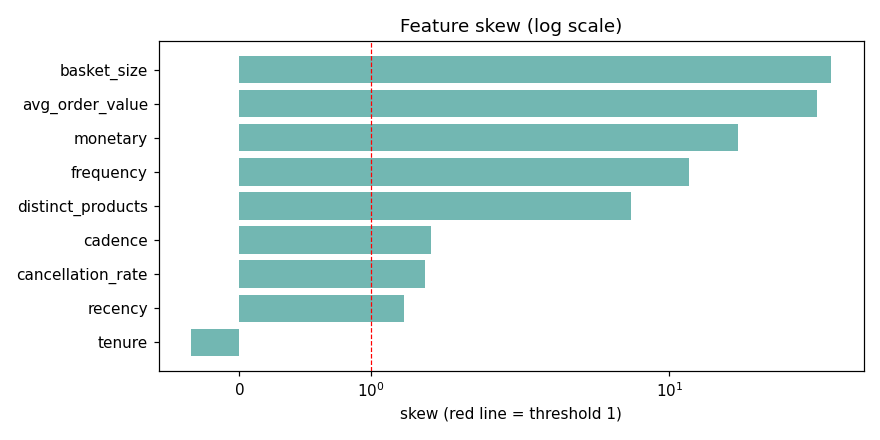
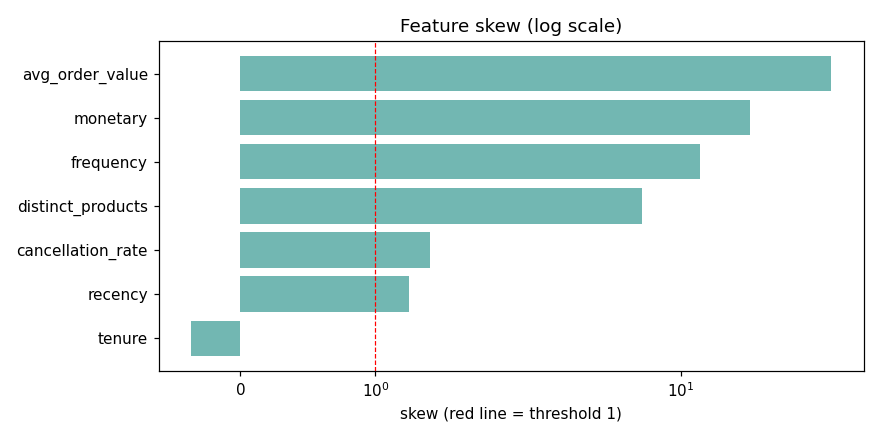
Select 7-feature clustering set, drop redundant basket_size and cadence
- dropped basket_size (r=0.93 with avg_order_value) and cadence (r=0.89 with recency)
- final set: recency, frequency, monetary, avg_order_value, distinct_products, cancellation_rate, tenure
- re-ran EDA, charts, and new feature_quality.py (eta^2 + single-feature silhouette)
- with redundancies removed, cancellation_rate is the strongest segment driver (eta^2 0.70)

diff --git a/feature_quality.py b/feature_quality.py
@@ -1,0 +1,132 @@
+"""Evaluate how good each feature is for customer segmentation.
+
+Two complementary measures:
+
+1. Single-feature silhouette: for each feature alone (log-transformed,
+   scaled), run KMeans for k=2..5 and take the best silhouette.
+   High score = the feature by itself splits customers into natural
+   groups.
+
+2. Eta-squared (discriminative power): cluster with the full feature
+   set (k=4), then measure how much of each feature's variance is
+   explained by cluster membership (one-way ANOVA eta^2).
+   High eta^2 = the feature strongly differentiates the segments.
+
+Run
+    python feature_quality.py
+
+Outputs
+    reports/feature_quality.md
+    reports/feature_quality.csv
+"""
+from __future__ import annotations
+
+from pathlib import Path
+
+import numpy as np
+import pandas as pd
+from sklearn.cluster import KMeans
+from sklearn.metrics import silhouette_score
+from sklearn.preprocessing import StandardScaler
+
+REPORT_DIR = Path("reports")
+REPORT_PATH = REPORT_DIR / "feature_quality.md"
+QUALITY_CSV = REPORT_DIR / "feature_quality.csv"
+
+FEATURES = [
+    "recency", "frequency", "monetary", "avg_order_value",
+    "distinct_products", "cancellation_rate", "tenure",
+]
+LOG_FEATURES = [
+    "recency", "frequency", "monetary", "avg_order_value",
+    "distinct_products", "cancellation_rate",
+]
+
+
+def prepare(feat: pd.DataFrame) -> pd.DataFrame:
+    X = feat[FEATURES].copy()
+    for f in LOG_FEATURES:
+        X[f] = np.log1p(X[f].clip(lower=0))
+    return X
+
+
+def single_feature_silhouette(X: pd.DataFrame) -> pd.DataFrame:
+    rows = []
+    for f in FEATURES:
+        x = StandardScaler().fit_transform(X[[f]])
+        best_k, best_sil = None, -1
+        for k in range(2, 6):
+            labels = KMeans(n_clusters=k, n_init=10, random_state=42).fit_predict(x)
+            sil = silhouette_score(x, labels)
+            if sil > best_sil:
+                best_k, best_sil = k, sil
+        rows.append({"feature": f, "best_k": best_k, "single_silhouette": best_sil})
+    return pd.DataFrame(rows)
+
+
+def eta_squared(X: pd.DataFrame, k: int = 4) -> pd.Series:
+    """Between-cluster variance share per feature (one-way ANOVA eta^2)."""
+    labels = KMeans(n_clusters=k, n_init=10, random_state=42).fit_predict(
+        StandardScaler().fit_transform(X)
+    )
+    out = {}
+    for f in FEATURES:
+        vals = X[f].values
+        grand = vals.mean()
+        ss_total = ((vals - grand) ** 2).sum()
+        ss_between = sum(
+            (vals[labels == j].size * (vals[labels == j].mean() - grand) ** 2
+             for j in range(k) if (labels == j).any())
+        )
+        out[f] = ss_between / ss_total if ss_total > 0 else 0.0
+    return pd.Series(out)
+
+
+def main() -> None:
+    feat = pd.read_csv(REPORT_DIR / "customer_features.csv", index_col="CustomerID")
+    X = prepare(feat)
+
+    single = single_feature_silhouette(X)
+    eta2 = eta_squared(X)
+
+    quality = single.set_index("feature")
+    quality["eta2"] = eta2
+    quality["zero_share"] = (feat[FEATURES] == 0).mean()
+    quality = quality.sort_values("eta2", ascending=False)
+    quality.to_csv(QUALITY_CSV)
+
+    md: list[str] = []
+    md.append("# Feature quality for segmentation\n")
+    md.append(f"> Customers: {len(feat):,} | Full-model k=4\n")
+    md.append("## Results (sorted by discriminative power)\n")
+    md.append("| feature | eta^2 | single-feature silhouette | best k | zero share |")
+    md.append("|---|---|---|---|---|")
+    for f, row in quality.iterrows():
+        md.append(f"| {f} | {row['eta2']:.3f} | {row['single_silhouette']:.3f} | "
+                  f"{int(row['best_k'])} | {row['zero_share']:.0%} |")
+
+    md.append("\n## How to read this\n")
+    md.append("- **eta^2** = share of the feature's variance explained by the "
+              "4 segments. >0.14 large, 0.06-0.14 medium, <0.06 small "
+              "(Cohen's conventions).")
+    md.append("- **single-feature silhouette** = how cleanly the feature alone "
+              "splits customers (best k in 2..5). >0.5 strong, 0.25-0.5 "
+              "reasonable, <0.25 weak.")
+    md.append("- **zero share** = fraction of customers with value 0 "
+              "(zero-inflated features split into 'has vs has-not' groups).")
+
+    top = quality["eta2"].idxmax()
+    md.append(f"\n## Verdict\n")
+    md.append(f"- Strongest segment drivers (eta^2): "
+              f"{', '.join(quality.index[:4])}.")
+    md.append(f"- Weakest: {', '.join(quality.index[-3:])}.")
+    md.append(f"- Redundant pairs to collapse: "
+              "avg_order_value/basket_size (r=0.93), recency/cadence (r=0.89).")
+
+    REPORT_PATH.write_text("\n".join(md) + "\n", encoding="utf-8")
+    print(f"Wrote report -> {REPORT_PATH}")
+    print(quality.round(3).to_string())
+
+
+if __name__ == "__main__":
+    main()

diff --git a/eda_features.py b/eda_features.py
@@ -32,15 +32,17 @@ CORR_CSV = REPORT_DIR / "feature_corr.csv"
 
 FEATURES = [
     "recency", "frequency", "monetary", "avg_order_value",
-    "basket_size", "distinct_products",
-    "cancellation_rate", "tenure", "cadence",
+    "distinct_products", "cancellation_rate", "tenure",
 ]
-# Display-only: constant features shown in the report but excluded from clustering.
-DISPLAY_FEATURES = FEATURES + ["return_rate"]
+# Dropped as redundant: basket_size (r=0.93 with avg_order_value),
+# cadence (r=0.89 with recency). Kept in DISPLAY_FEATURES for
+# documentation, excluded from clustering.
+DROPPED_FEATURES = ["basket_size", "cadence"]
+# Display-only: non-clustering features shown in the report.
+DISPLAY_FEATURES = FEATURES + DROPPED_FEATURES + ["return_rate"]
 LOG_FEATURES = [
     "recency", "frequency", "monetary", "avg_order_value",
-    "basket_size", "distinct_products",
-    "cancellation_rate", "cadence",
+    "distinct_products", "cancellation_rate",
 ]
 
 

diff --git a/eda_charts.py b/eda_charts.py
@@ -49,8 +49,7 @@ def main() -> None:
 
     # 3. Correlation heatmap
     features = ["recency", "frequency", "monetary", "avg_order_value",
-                "basket_size", "distinct_products", "cancellation_rate",
-                "tenure", "cadence"]
+                "distinct_products", "cancellation_rate", "tenure"]
     corr = feat[features].corr()
     fig, ax = plt.subplots(figsize=(7, 6))
     im = ax.imshow(corr.values, cmap="RdBu_r", vmin=-1, vmax=1)
@@ -73,8 +72,7 @@ def main() -> None:
     from sklearn.preprocessing import StandardScaler
 
     log_features = ["recency", "frequency", "monetary", "avg_order_value",
-                    "basket_size", "distinct_products",
-                    "cancellation_rate", "cadence"]
+                    "distinct_products", "cancellation_rate"]
     X = feat[["tenure"]].copy()
     for f in log_features:
         X[f] = np.log1p(feat[f].clip(lower=0))

diff --git a/reports/feature_eda_report.md b/reports/feature_eda_report.md
@@ -1,6 +1,6 @@
 # Feature-level EDA — customer feature table
 
-> Customers: **4,338** | Features: **9**
+> Customers: **4,338** | Features: **7**
 
 ## 1. Distributions
 
@@ -10,14 +10,14 @@
 | frequency | 4.27 | 7.70 | 2.00 | 12.07 |
 | monetary | 2,048.69 | 8,985.23 | 668.57 | 19.34 |
 | avg_order_value | 417.65 | 1,796.51 | 291.94 | 41.69 |
-| basket_size | 252.46 | 1,312.77 | 161.00 | 48.01 |
 | distinct_products | 61.37 | 85.29 | 35.00 | 6.92 |
 | cancellation_rate | 0.11 | 0.17 | 0.00 | 1.40 |
 | tenure | 222.31 | 117.89 | 248.00 | -0.37 |
+| basket_size | 252.46 | 1,312.77 | 161.00 | 48.01 |
 | cadence | 98.02 | 87.59 | 66.71 | 1.46 |
 | return_rate | 0.00 | 0.00 | 0.00 | 0.00 |
 
-- **Right-skewed (|skew| > 1): recency, frequency, monetary, avg_order_value, basket_size, distinct_products, cancellation_rate, cadence** — log-transform these before distance-based clustering.
+- **Right-skewed (|skew| > 1): recency, frequency, monetary, avg_order_value, distinct_products, cancellation_rate, basket_size, cadence** — log-transform these before distance-based clustering.
 - `tenure` is the only near-symmetric feature (skew -0.37).
 - `return_rate` is **constant 0** — every negative-quantity line in the raw data sat on a C-invoice or a guest checkout, so no returns survive the cleaning policy. Excluded from the clustering feature set: a constant cannot separate clusters.
 
@@ -25,8 +25,6 @@
 
 Full matrix written to `reports\feature_corr.csv`. Strongest absolute pairs (|r| > 0.5):
 
-- `avg_order_value` ↔ `basket_size`: **+0.93**
-- `recency` ↔ `cadence`: **+0.89**
 - `frequency` ↔ `distinct_products`: **+0.69**
 - `frequency` ↔ `monetary`: **+0.55**
 
@@ -41,17 +39,17 @@ Full matrix written to `reports\feature_corr.csv`. Strongest absolute pairs (|r|
 
 | k | inertia | silhouette |
 |---|---|---|
-| 2 | 28,196 | 0.250 |
-| 3 | 23,736 | 0.233 |
-| 4 | 20,900 | 0.208 |
-| 5 | 18,973 | 0.211 |
-| 6 | 17,500 | 0.193 |
-| 7 | 16,366 | 0.190 |
-| 8 | 15,449 | 0.189 |
-| 9 | 14,653 | 0.185 |
-| 10 | 14,042 | 0.179 |
+| 2 | 20,780 | 0.283 |
+| 3 | 17,890 | 0.232 |
+| 4 | 15,474 | 0.242 |
+| 5 | 13,778 | 0.220 |
+| 6 | 12,678 | 0.201 |
+| 7 | 11,867 | 0.206 |
+| 8 | 11,129 | 0.201 |
+| 9 | 10,542 | 0.204 |
+| 10 | 10,088 | 0.192 |
 
-- **Best silhouette: k = 2** (score 0.250).
+- **Best silhouette: k = 2** (score 0.283).
 - Inertia keeps falling with k (expected); silhouette peaks at the natural cluster count. Confirm with business interpretability of the resulting segments.
 
 ## 5. Next steps

diff --git a/reports/feature_quality.md b/reports/feature_quality.md
@@ -1,0 +1,27 @@
+# Feature quality for segmentation
+
+> Customers: 4,338 | Full-model k=4
+
+## Results (sorted by discriminative power)
+
+| feature | eta^2 | single-feature silhouette | best k | zero share |
+|---|---|---|---|---|
+| cancellation_rate | 0.702 | 0.864 | 5 | 64% |
+| frequency | 0.608 | 0.781 | 5 | 0% |
+| tenure | 0.565 | 0.672 | 2 | 0% |
+| monetary | 0.553 | 0.566 | 2 | 0% |
+| recency | 0.434 | 0.583 | 4 | 2% |
+| distinct_products | 0.403 | 0.556 | 2 | 0% |
+| avg_order_value | 0.168 | 0.540 | 2 | 0% |
+
+## How to read this
+
+- **eta^2** = share of the feature's variance explained by the 4 segments. >0.14 large, 0.06-0.14 medium, <0.06 small (Cohen's conventions).
+- **single-feature silhouette** = how cleanly the feature alone splits customers (best k in 2..5). >0.5 strong, 0.25-0.5 reasonable, <0.25 weak.
+- **zero share** = fraction of customers with value 0 (zero-inflated features split into 'has vs has-not' groups).
+
+## Verdict
+
+- Strongest segment drivers (eta^2): cancellation_rate, frequency, tenure, monetary.
+- Weakest: recency, distinct_products, avg_order_value.
+- Redundant pairs to collapse: avg_order_value/basket_size (r=0.93), recency/cadence (r=0.89).
